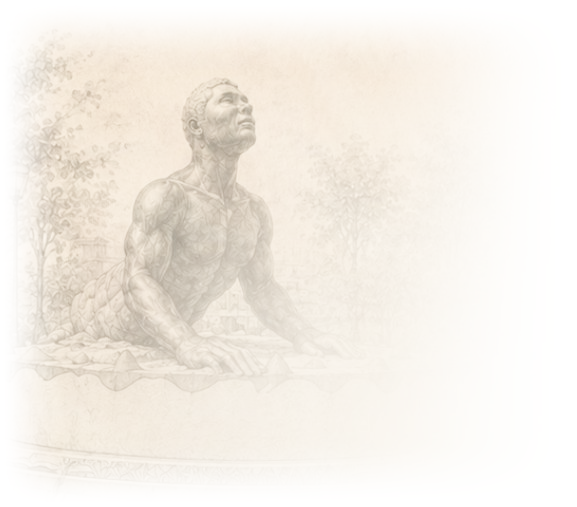
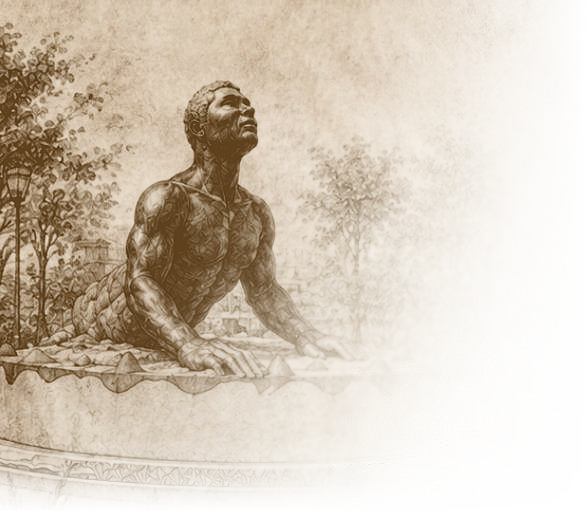
style(editorial): aumentar tamano, nitidez y visibilidad de las ilustraciones de cabecera en cultura, historia, programacion y lugares

diff --git a/src/app/components/editorial-shell/editorial-shell.css b/src/app/components/editorial-shell/editorial-shell.css
@@ -306,36 +306,30 @@
 .lugares-watermark-caiman {
   position: absolute;
   left: 0;
-  top: 0;
-  bottom: 0;
-  height: 100%;
+  top: 50%;
+  transform: translateY(-50%);
+  height: 105%;
   width: auto;
-  max-width: clamp(220px, 32vw, 380px);
+  max-width: clamp(280px, 36vw, 480px);
   object-fit: contain;
   object-position: left center;
-  opacity: 0.52;
+  opacity: 0.92;
   mix-blend-mode: multiply;
-  -webkit-mask-image: radial-gradient(ellipse 95% 85% at 20% 50%, black 50%, transparent 100%);
-  mask-image: radial-gradient(ellipse 95% 85% at 20% 50%, black 50%, transparent 100%);
-  filter: sepia(0.18) saturate(0.92);
   pointer-events: none;
 }
 
 .lugares-watermark-iglesia {
   position: absolute;
   right: 0;
-  top: 0;
-  bottom: 0;
-  height: 100%;
+  top: 50%;
+  transform: translateY(-50%);
+  height: 105%;
   width: auto;
-  max-width: clamp(240px, 35vw, 410px);
+  max-width: clamp(300px, 38vw, 500px);
   object-fit: contain;
   object-position: right center;
-  opacity: 0.50;
+  opacity: 0.90;
   mix-blend-mode: multiply;
-  -webkit-mask-image: radial-gradient(ellipse 95% 85% at 80% 50%, black 50%, transparent 100%);
-  mask-image: radial-gradient(ellipse 95% 85% at 80% 50%, black 50%, transparent 100%);
-  filter: sepia(0.18) saturate(0.92);
   pointer-events: none;
 }
 
@@ -441,8 +435,8 @@
 
   .lugares-watermark-caiman,
   .lugares-watermark-iglesia {
-    opacity: 0.28;
-    max-width: 140px;
+    opacity: 0.55;
+    max-width: 180px;
   }
 }
 
